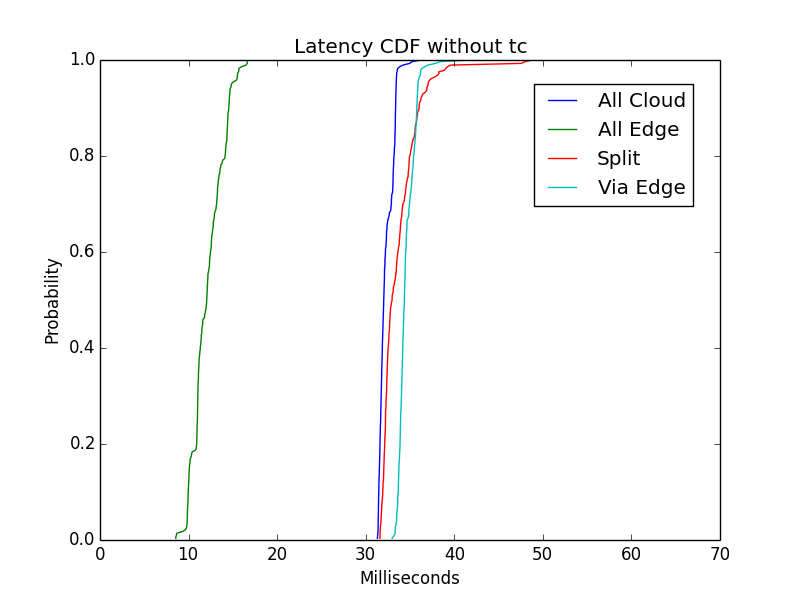
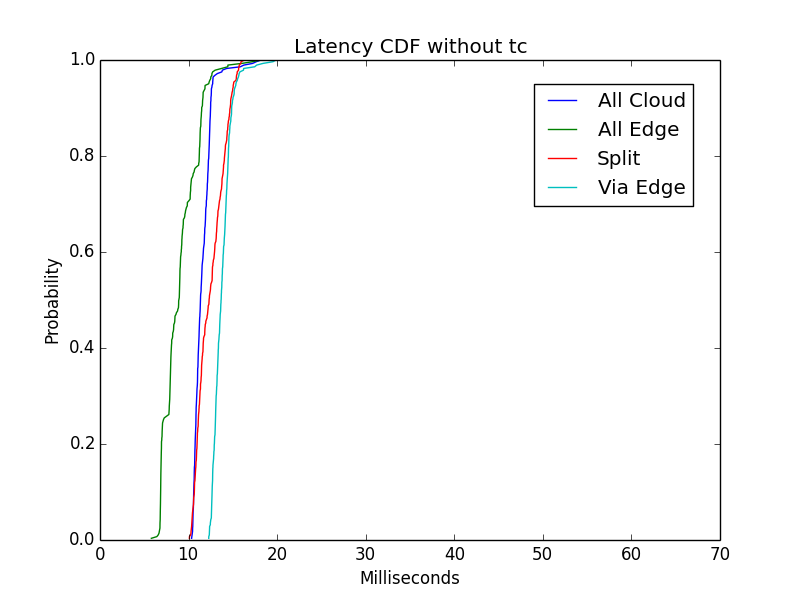
typos

Changed region(s): [[0.1875, 0.09, 0.3438, 0.9], [0.4688, 0.15, 0.5312, 0.9], [0.5, 0.09, 0.6562, 0.15]]

diff --git a/bench/scripts/cdf.py b/bench/scripts/cdf.py
@@ -5,7 +5,7 @@ MICROSECONDS = 1000
 
 # Thanks Stacked Overflow post https://stackoverflow.com/questions/24575869/read-file-and-plot-cdf-in-python
 
-conn_type = "pop" # "local" or "no-tc" or "pop"
+conn_type = "no-tc" # "local" or "no-tc" or "pop"
 
 cloud_local = sorted(set(np.loadtxt('../results/diff-all-cloud-local.txt') / MICROSECONDS))
 edge_local = sorted(set(np.loadtxt('../results/diff-all-edge-local.txt') / MICROSECONDS))
@@ -75,10 +75,10 @@ elif conn_type == "pop":
 	s_cdf, s_bin_edges = get_cdf(split_pop)
 	v_cdf, v_bin_edges = get_cdf(via_edge_pop)
 else:
-	c_cdf, c_bin_edges = get_cdf(cloud_local)
-	e_cdf, e_bin_edges = get_cdf(edge_local)
-	s_cdf, s_bin_edges = get_cdf(split_local)
-	v_cdf, v_bin_edges = get_cdf(via_edge_local)
+	c_cdf, c_bin_edges = get_cdf(cloud_no_tc)
+	e_cdf, e_bin_edges = get_cdf(edge_no_tc)
+	s_cdf, s_bin_edges = get_cdf(split_no_tc)
+	v_cdf, v_bin_edges = get_cdf(via_edge_no_tc)
 
 # And finally plot the cdf
 fig = plt.figure()
